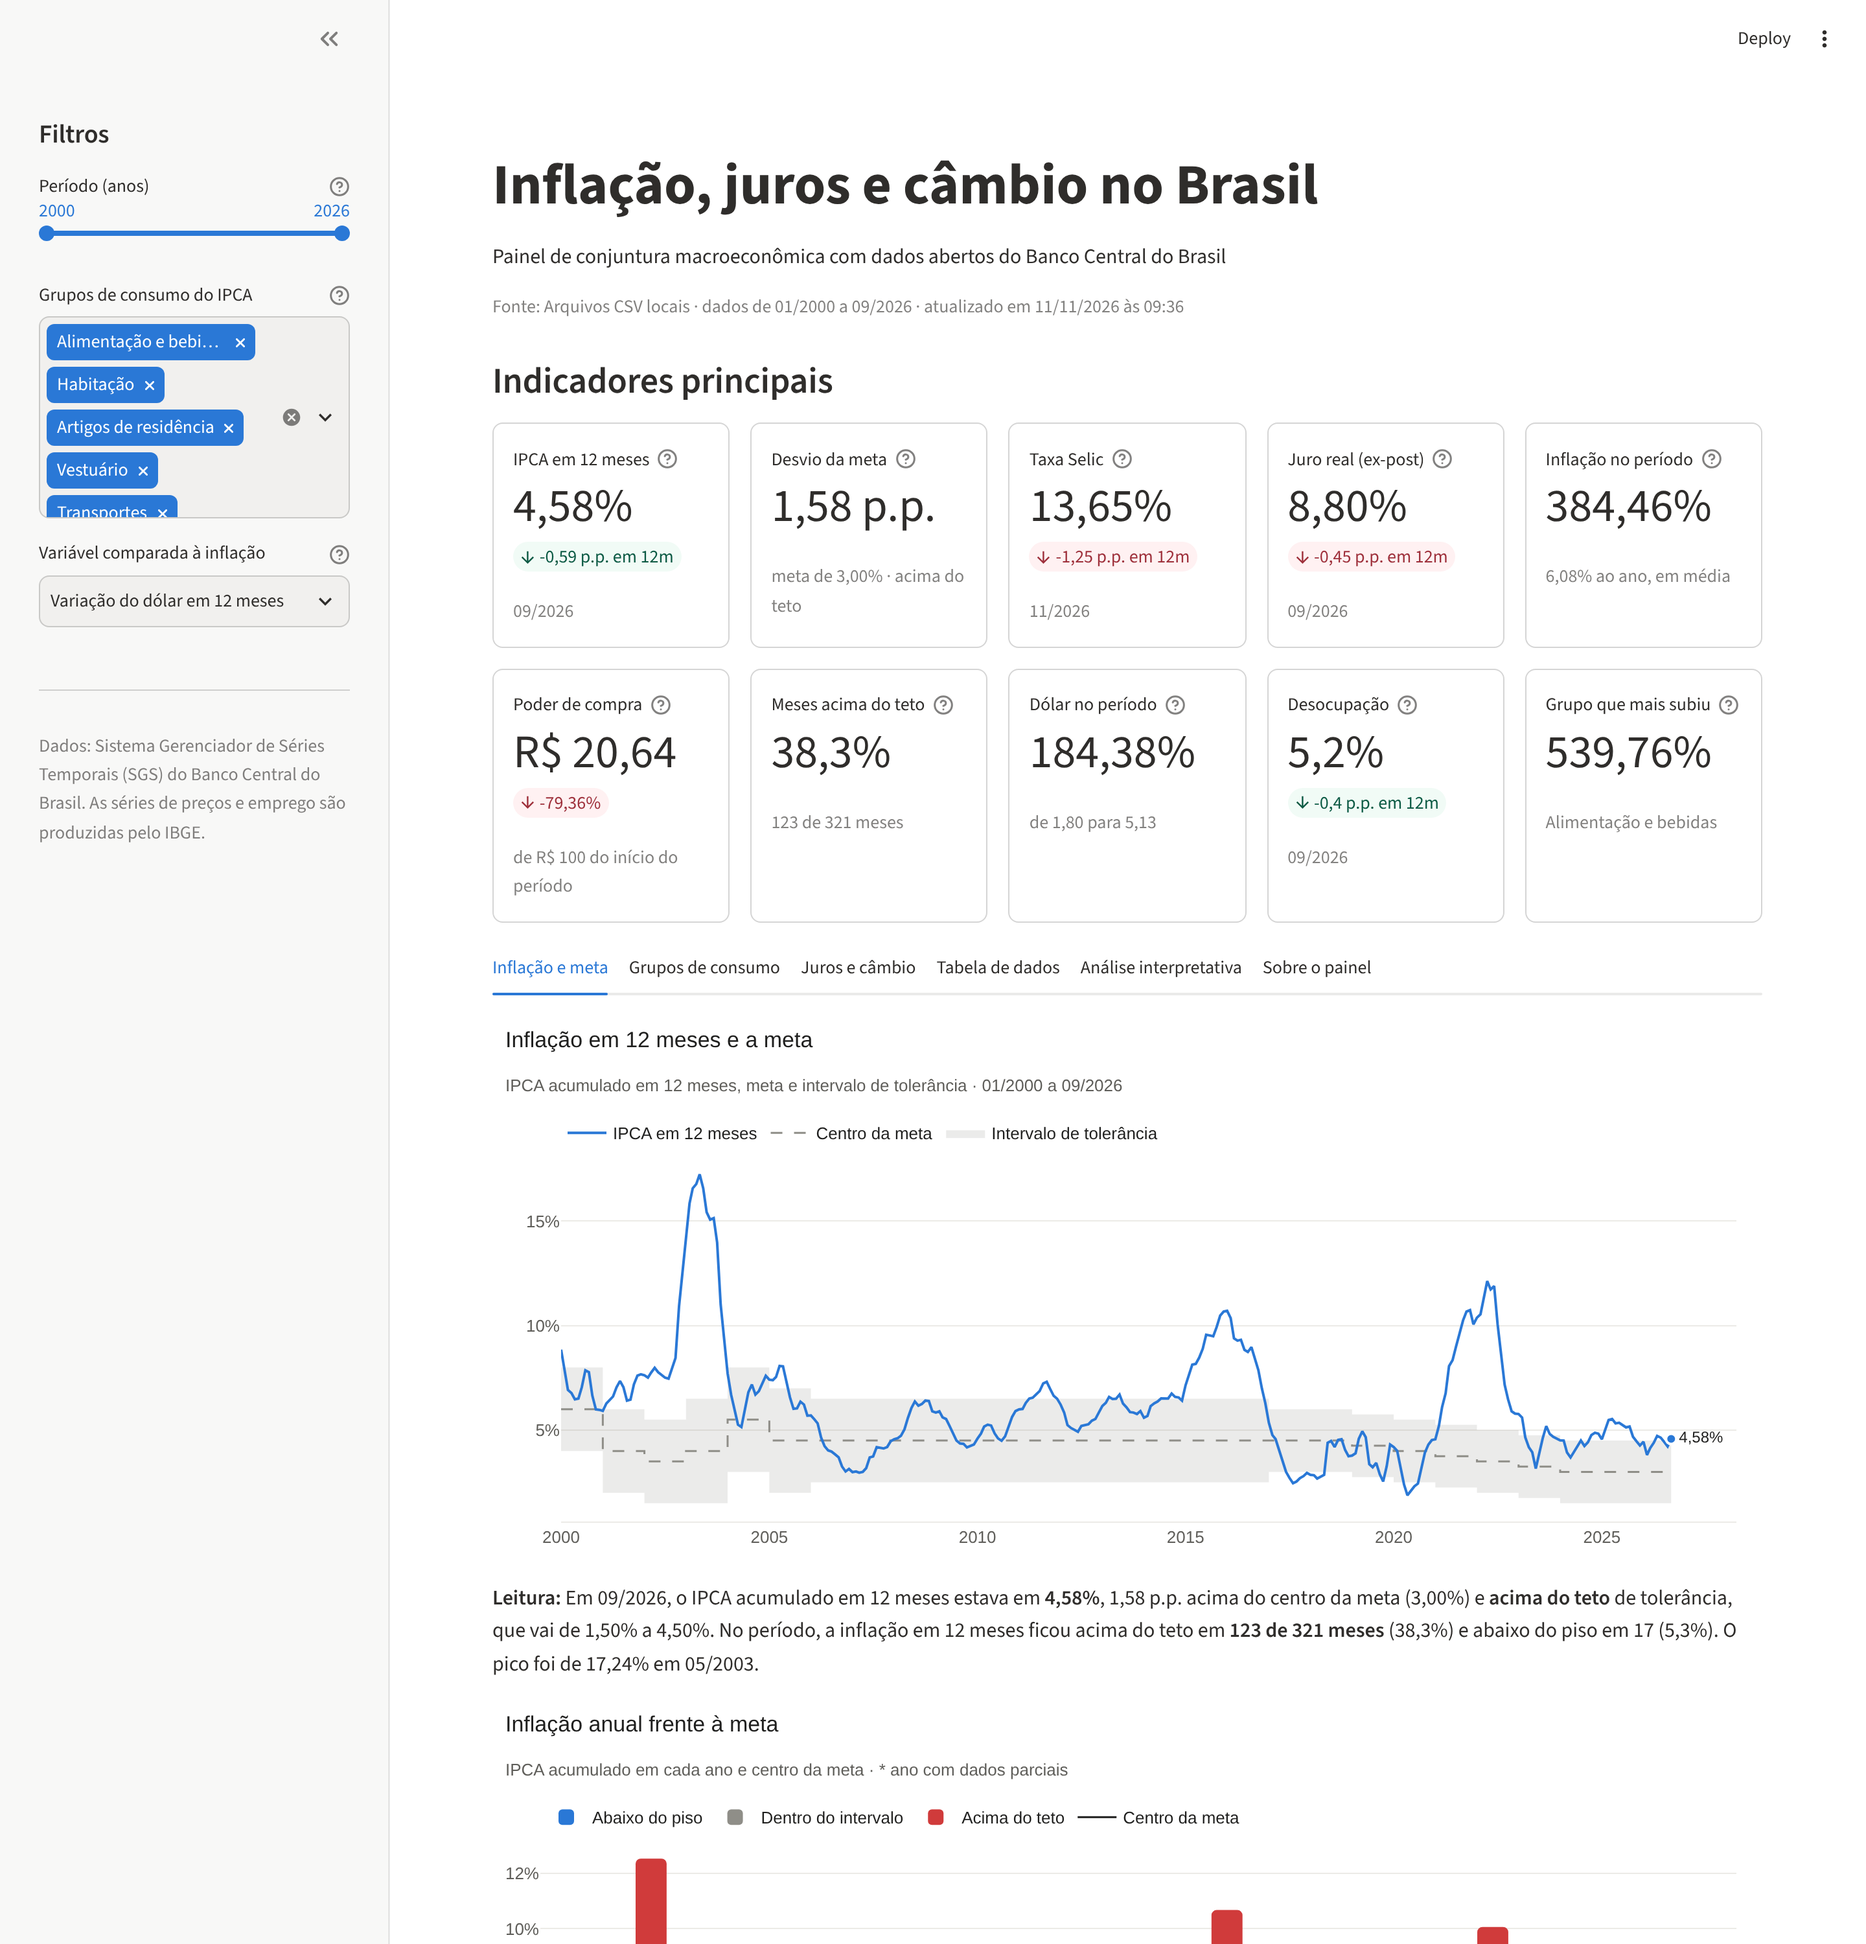
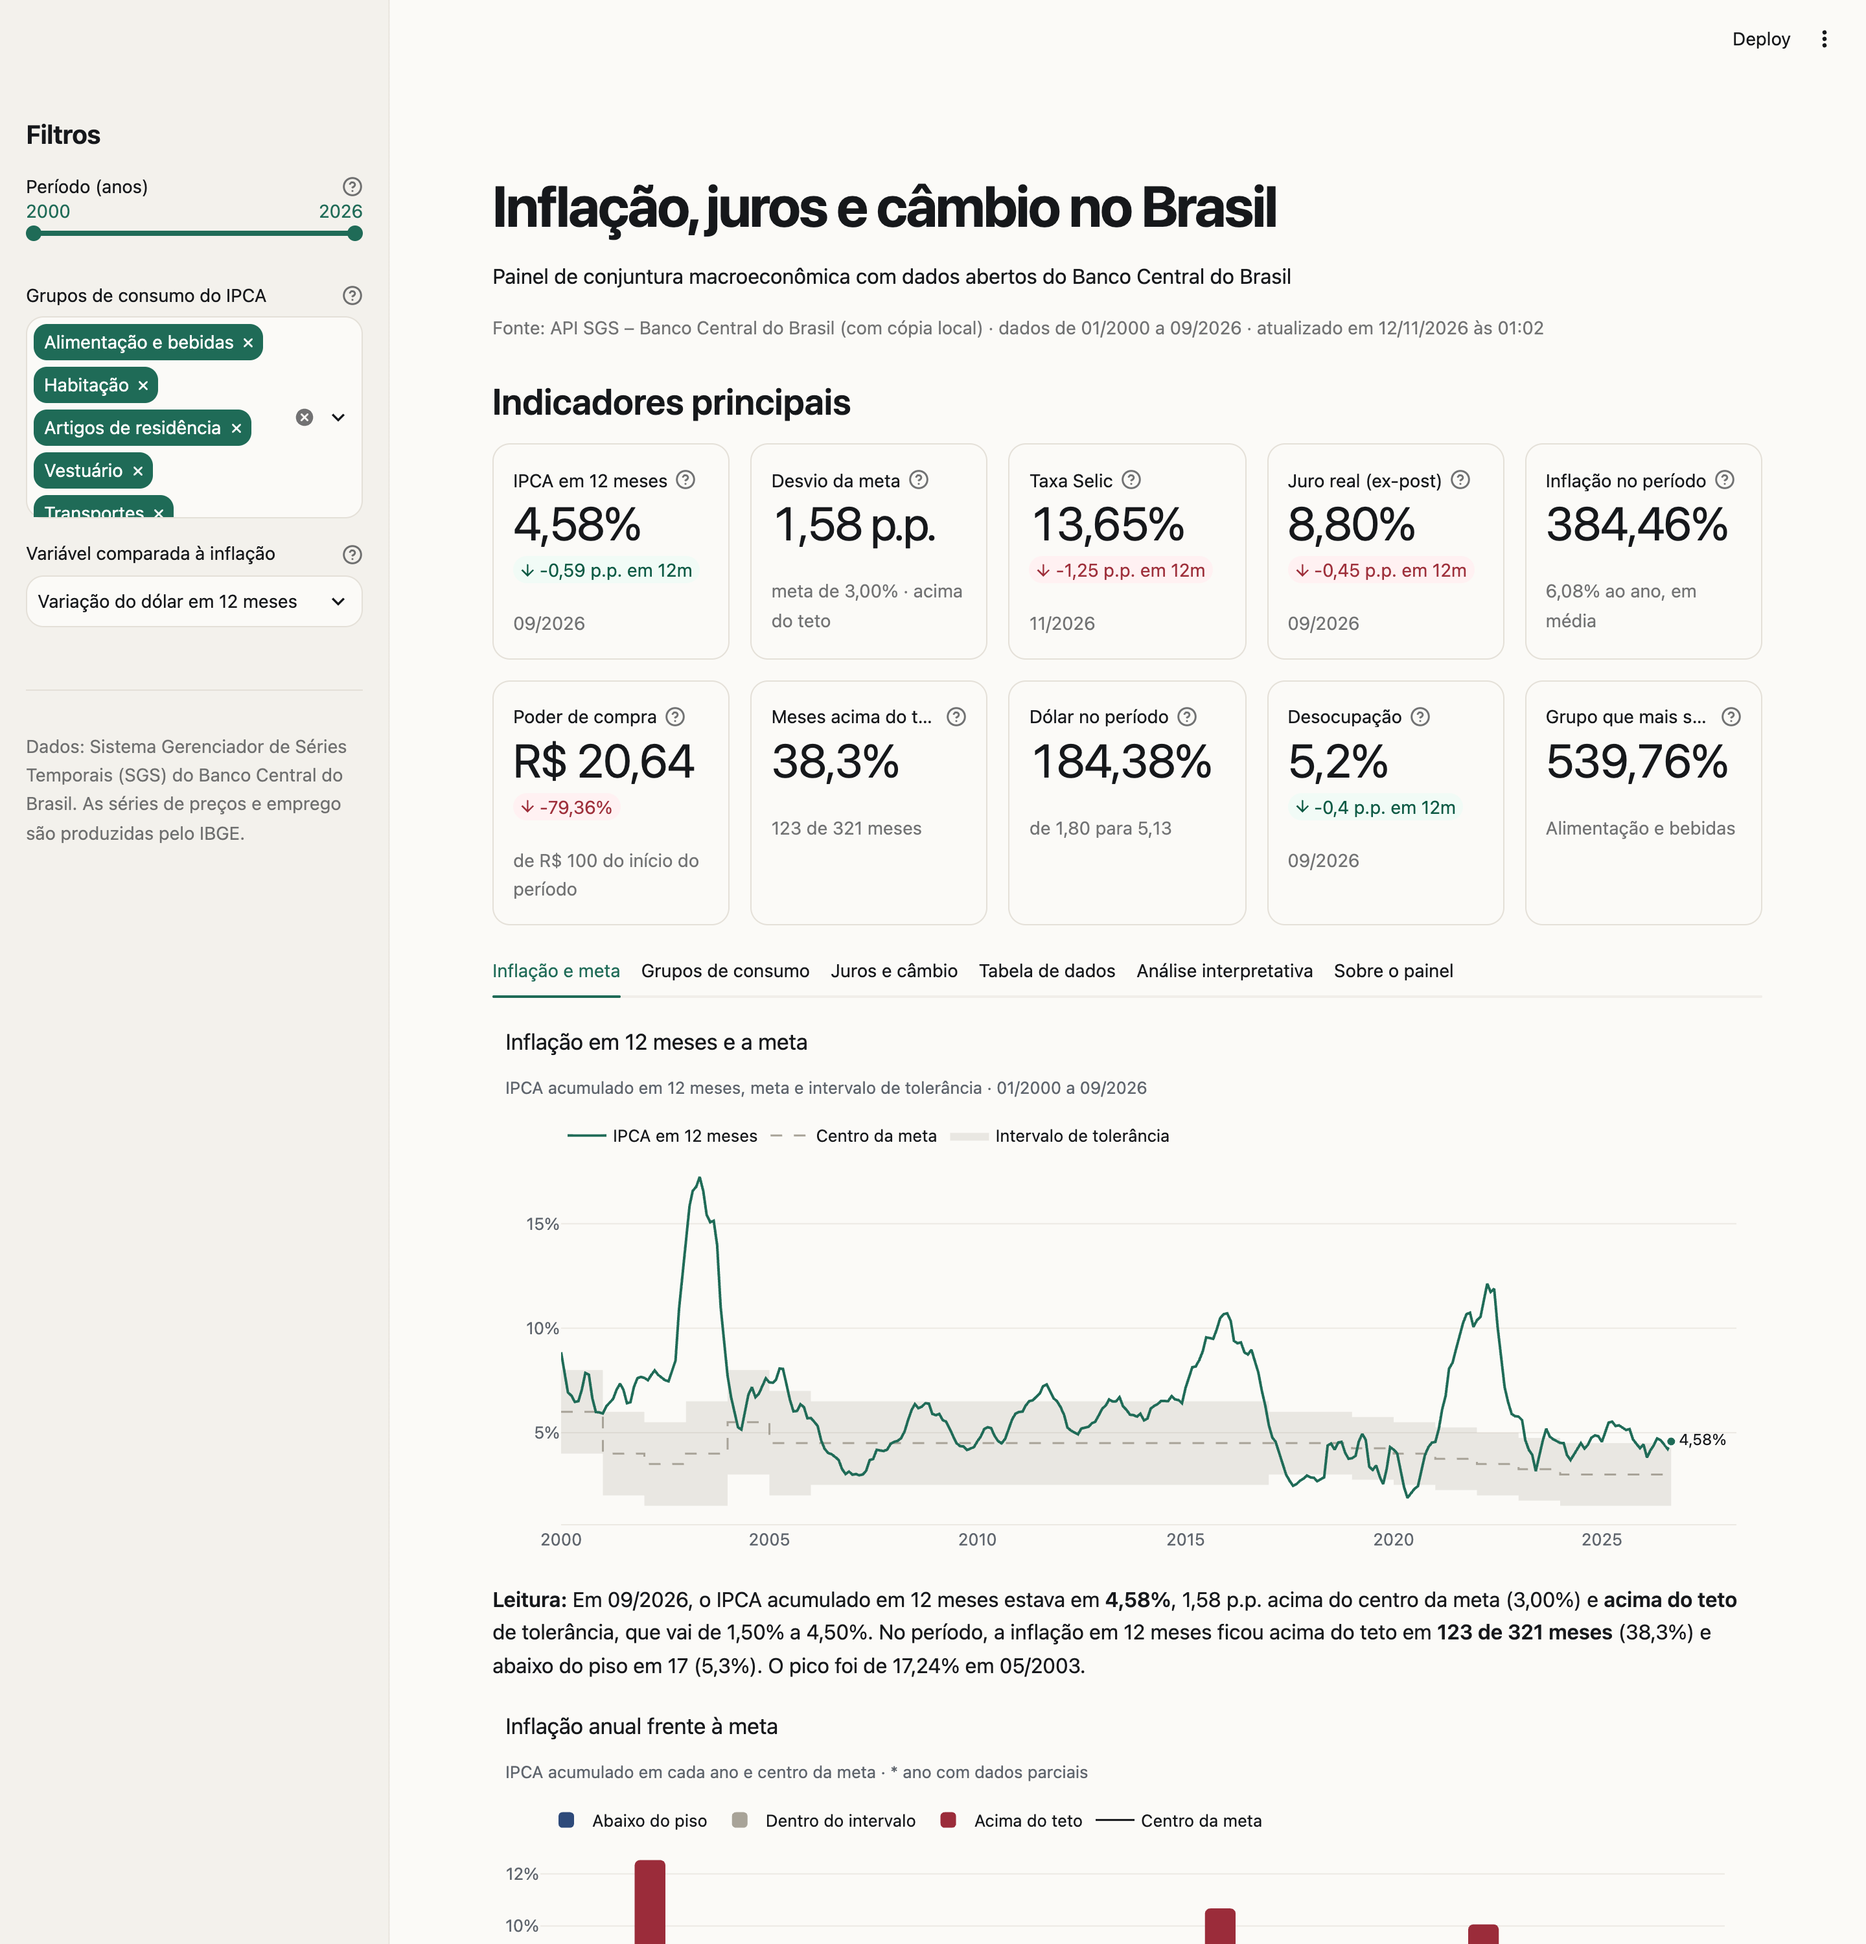
feat: tema refinado do dashboard (cores, tipografia e cartões)

diff --git a/painel_macro/dashboard.py b/painel_macro/dashboard.py
@@ -30,6 +30,43 @@ CONFIG_PLOTLY = {"displaylogo": False, "modeBarButtonsToRemove": ["lasso2d", "se
 
 COLUNAS_TABELA_PADRAO = ["ipca", "ipca_12m", "meta_inflacao", "selic", "juro_real", "dolar"]
 
+#: Refinamentos visuais que o tema do Streamlit não cobre: tipografia dos títulos,
+#: profundidade dos cartões de indicadores e uma entrada suave do conteúdo.
+ESTILO = """
+<style>
+h1 { letter-spacing: -0.035em; line-height: 1.05; }
+h2, h3 { letter-spacing: -0.02em; }
+[data-testid="stMetric"] [data-testid="stMetricValue"] {
+  letter-spacing: -0.03em; font-variant-numeric: tabular-nums;
+}
+[data-testid="stVerticalBlockBorderWrapper"]:has([data-testid="stMetric"]) {
+  background: #FFFFFF;
+  box-shadow: 0 1px 0 rgba(255, 255, 255, 0.9) inset, 0 12px 28px -18px rgba(22, 24, 27, 0.28);
+  transition: transform 220ms cubic-bezier(0.23, 1, 0.32, 1),
+              box-shadow 220ms cubic-bezier(0.23, 1, 0.32, 1);
+}
+@media (hover: hover) {
+  [data-testid="stVerticalBlockBorderWrapper"]:has([data-testid="stMetric"]):hover {
+    transform: translateY(-2px);
+    box-shadow: 0 1px 0 rgba(255, 255, 255, 0.9) inset, 0 18px 34px -18px rgba(22, 24, 27, 0.34);
+  }
+}
+.stTabs [data-baseweb="tab-list"] { gap: 6px; }
+.stTabs [data-baseweb="tab"] { font-weight: 600; }
+[data-testid="stMainBlockContainer"] {
+  animation: entrada 520ms cubic-bezier(0.23, 1, 0.32, 1) both;
+}
+@keyframes entrada {
+  from { opacity: 0; transform: translateY(8px); }
+  to { opacity: 1; transform: none; }
+}
+@media (prefers-reduced-motion: reduce) {
+  [data-testid="stMainBlockContainer"] { animation: none; }
+  [data-testid="stVerticalBlockBorderWrapper"]:has([data-testid="stMetric"]) { transition: none; }
+}
+</style>
+"""
+
 
 @dataclass(frozen=True)
 class InformacoesCarga:
@@ -114,6 +151,7 @@ class Dashboard:
     # Componentes
     # ------------------------------------------------------------------
     def _cabecalho(self) -> None:
+        st.markdown(ESTILO, unsafe_allow_html=True)
         st.title(self.TITULO)
         st.markdown(self.SUBTITULO)
         inicio, fim = self._analisador.periodo_da_coluna("ipca")
